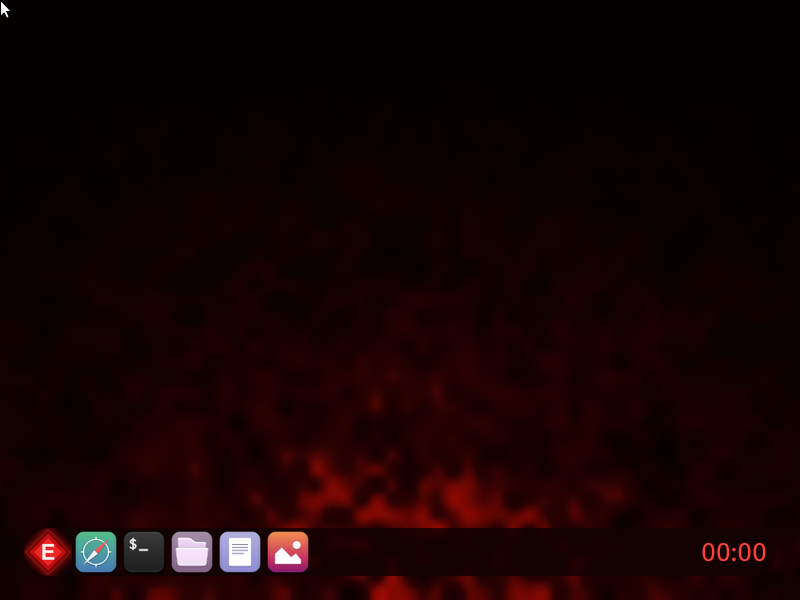
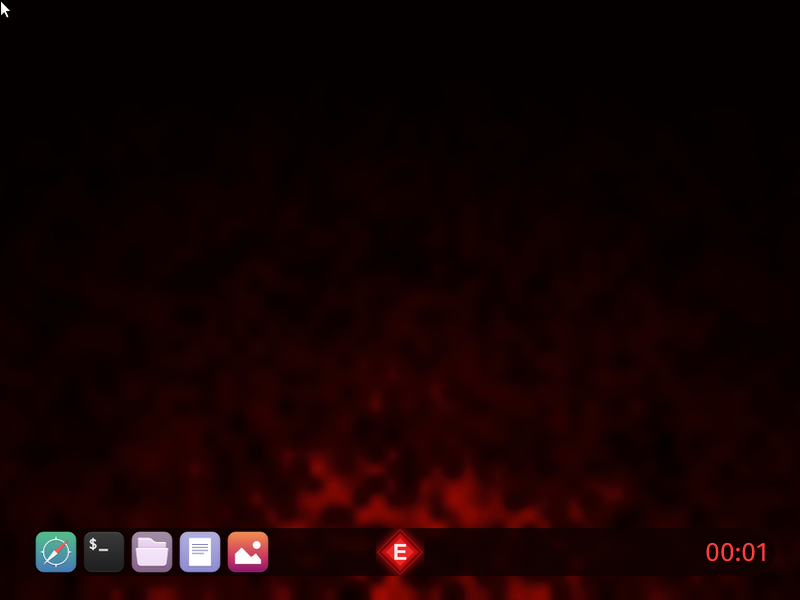
DE Phase 1b: centered diamond-E Start (verified)
Launcher layout now matches the mockup: app icons on the left, the E-OS diamond-E Start
centered, red clock on the right. Draw + hit-test rewritten together on the index model
(0=Start centered, 1..n=apps left) so clicks stay correct; click handler is index-based
and unchanged. Boot-verified via QEMU screendump. eos-orbutils fork (local).

Changed region(s): [[0.0312, 0.87, 0.4062, 0.96], [0.4688, 0.87, 0.5312, 0.96], [0.875, 0.9, 0.9688, 0.96]]

diff --git a/docs/design-desktop-environment.md b/docs/design-desktop-environment.md
@@ -93,8 +93,9 @@ Original Phase-0 checklist (kept for reference):
 **Status (2026-07-12): Phase 1a done** — the `launcher` bar now floats (inset side/bottom margins)
 with rounded translucent-red-glass corners (`orbclient::rounded_rect`), verified via screendump.
 Safe because the item layout stays index-based and window-relative, so hit-testing is unchanged.
-*Remaining Phase 1b/c:* big **centered** diamond-E Start (needs the layout to place index 0 at
-center + a matching hit-test change), a system **tray** (clock is there; add volume/network/battery),
+*Phase 1b done (2026-07-12):* the diamond-E Start is now **centered** (apps flow from the left, clock
+right), draw + hit-test kept in sync via the index model — verified by screendump. *Remaining
+Phase 1c:* a system **tray** (clock is there; add volume/network/battery),
 and registering the bar geometry with the compositor (replace the `48px` magic number in
 `compositor.rs:92-104`).
 
